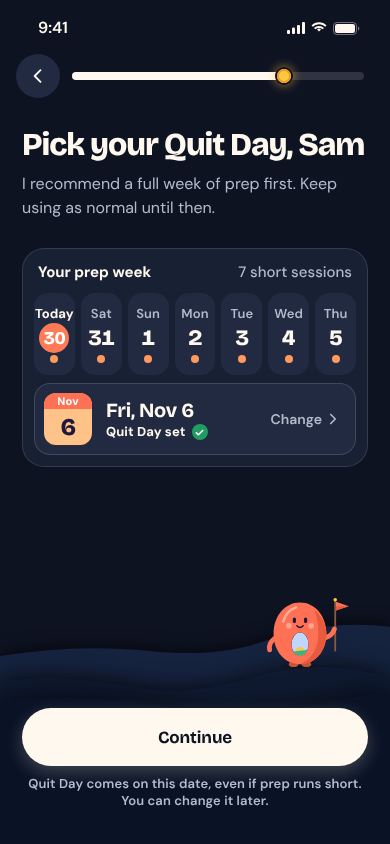
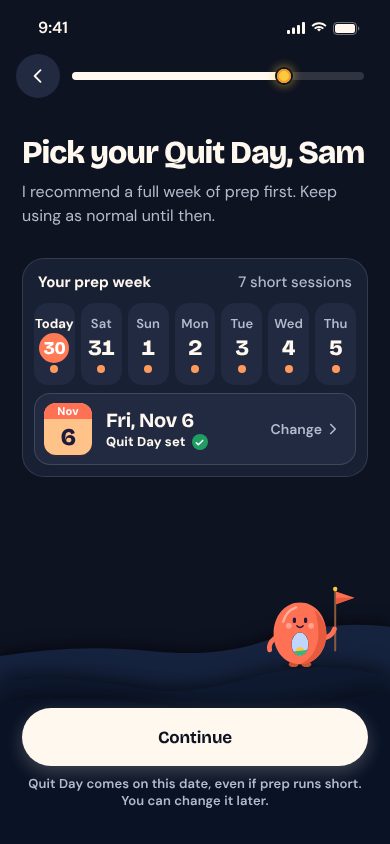
Cook: round 10 Program (022) road and horizon
Claude-Session: https://claude.ai/code/session_01DZ7ApmrncqosUtJWfkxY6v

diff --git a/cook/site/screens/010-onboarding-quit_day.html b/cook/site/screens/010-onboarding-quit_day.html
@@ -1,12 +1,12 @@
 <!doctype html><html lang="en"><head><meta charset="utf-8"><meta name="viewport" content="width=390">
 <title>010 Onboarding Quit Day</title>
-<meta name="motion" content="Progress eases 7/11 to 8/11; title, the prep-week card (seven tiles rise 45ms apart, today's Fri 30 in its coral disc, their prep dots pop left to right), the Quit Day row (a cream card with an apricot Nov 6 date page and a Change label with a right chevron: the tappable date picker), the hold button arrive in order, while the horizon strip above the dock settles up in three paper layers (0, 120, 240ms; 40px, 900ms settle) and Xero (80px, holding the coral Day Xero flag with its pennant lowered) settles onto its crest last (from 420ms). Holding fills the button left to right over 1500ms with a soft ticking haptic; on complete the button shows its done state, Quit Day set (success haptic), the coral Day Xero flag Xero holds runs up its pole (34px, 700ms settle) while he bumps (520ms), and the row's caption swaps Quit Day, recommended for Quit Day set with a green tick (300ms crossfade). 1200ms later the done button crossfades (350ms) into Continue. Tapping the Quit Day row opens the date wheel.">
+<meta name="motion" content="Progress eases 7/11 to 8/11; title, the prep-week card (seven tiles rise 45ms apart, today's Fri 30 in its coral disc, their prep dots pop left to right), the Quit Day row (a cream card with an apricot Nov 6 date page and a Change label with a right chevron: the tappable date picker), the hold button arrive in order, while the horizon strip above the dock settles up in three paper layers (0, 120, 240ms; 40px, 900ms settle) and Xero (80px, holding the coral Day Xero flag with its pennant lowered) settles onto its crest last (from 420ms). Holding fills the button left to right over 1500ms with a soft ticking haptic; on complete the button shows its done state, Quit Day set (success haptic), the coral Day Xero flag Xero holds runs up its pole (44px, 700ms settle) while he bumps (520ms), and the row's caption swaps Quit Day, recommended for Quit Day set with a green tick (300ms crossfade). 1200ms later the done button crossfades (350ms) into Continue. Tapping the Quit Day row opens the date wheel.">
 <link rel="stylesheet" href="../kit/kit.css">
 <script src="../kit/chars.js"></script><script src="../kit/kit.js"></script>
 <style>
   /* Onboarding header: back button and progress only (no avatar); the bar ends at the gutter so the sun knob never collides. */
   .nav { padding-right: 26px; }
-  .wk { margin: 28px var(--gutter) 0; padding: 14px 12px 12px; }
+  .wk { margin: 30px var(--gutter) 0; padding: 14px 12px 12px; }
   .wk-h { display: flex; justify-content: space-between; align-items: baseline; padding: 0 4px 10px; }
   /* Prep tiles sit lighter than the card in both modes (card-2), so the week always reads. */
   .days { display: grid; grid-template-columns: repeat(7, minmax(0,1fr)); gap: 6px; }
@@ -41,8 +41,8 @@
   .qd .chev { color: var(--muted); width: 18px; height: 18px; }
   .qd .chev svg { width: 18px; height: 18px; }
   /* Round 10: Xero stands on the horizon strip holding the coral Day Xero flag; it runs up the pole when Quit Day is set. */
-  .q { padding-top: 128px; }
-  .hz .pen { transform: translateY(34px); transition: transform 700ms var(--settle); }
+  .q { padding-top: 136px; }
+  .hz .pen { transform: translateY(44px); transition: transform 700ms var(--settle); }
   .hz.set .pen { transform: none; }
   .dock .t-cap { text-align: center; color: var(--muted); }
   /* After the hold: the done state shows, then the button hands over to Continue. */
@@ -118,8 +118,8 @@
   $('days').innerHTML = days.map(([d, n], i) => `<div class="day ${i === 0 ? 'today' : ''}" data-a style="--i:${i * .5 + 2.5}"><span class="t-cap">${i === 0 ? 'Today' : d}</span><span class="num">${n}</span><span class="pd" data-pop style="--i:0;--d:${700 + i * 90}ms"></span></div>`).join('');
   /* Xero, hello, holding the coral Day Xero flag in his right hand (pole behind the hand; the pennant rides up on set).
      Flat paper-cut: a coral pennant with its lower fold one shade deeper, no outline, no gloss. */
-  const flag = `<path d="M188 154 L188 30" stroke="#8A5A3C" stroke-width="4.5" stroke-linecap="round"/><circle cx="188" cy="27" r="4.5" fill="#FFC93C"/>
-    <g class="pen"><path d="M190 32 L222 43 L190 54 Z" fill="#FF7155"/><path d="M190 43 L222 43 L190 54 Z" fill="#E85A3E"/></g>`;
+  const flag = `<path d="M188 154 L188 2" stroke="#8A5A3C" stroke-width="5" stroke-linecap="round"/><circle cx="188" cy="0" r="5.5" fill="#FFC93C"/>
+    <g class="pen"><path d="M190 6 L236 22 L190 38 Z" fill="#FF7155"/><path d="M190 22 L236 22 L190 38 Z" fill="#E85A3E"/></g>`;
   const arm = '<path d="M164 122 C176 118 183 110 186 100" fill="none" stroke="#FF7155" stroke-width="12" stroke-linecap="round"></path>';
   $('hz').innerHTML = horizon({ x: 300, size: 80, art: '<div id="bw">' + DX.char('xero', { mood: 'hello', size: 80 })
     .replace('style="display: block"', 'style="display: block; overflow: visible"')

diff --git a/cook/site/screens/041-log-menu.html b/cook/site/screens/041-log-menu.html
@@ -1,6 +1,6 @@
 <!doctype html><html lang="en"><head><meta charset="utf-8"><meta name="viewport" content="width=390">
 <title>041 Log sheet</title>
-<meta name="motion" content="Today (the dawn hero with Xero) softens behind the sheet: a soft 3px blur under one uniform scrim (a warm coral veil at 16% in light, navy at 40% in dark, no desaturation, so Xero keeps his colour) while its type fades back to 30% and is masked out to nothing before the sheet edge (250ms), as the sheet slides up from the bottom (450ms settle curve, light haptic as it lands). The craving row arrives first with a larger Jelli in place of an icon, then the Used nicotine? section header (the craving form's header style) and the quieter Puff and Cigarette group, each with a small paper-cut object in place of an icon (90ms stagger), then the slip note, which sits well clear of the home indicator. All three rows end in the same 44pt tonal + button; tapping one bumps it and pushes the matching form.">
+<meta name="motion" content="Today (the dawn hero with Xero) softens behind the sheet: a soft 3px blur under one uniform scrim (a warm coral veil at 16% in light, a light navy veil at 20% in dark, no desaturation, so Xero keeps his colour) while its type fades out completely (250ms), so nothing ghosts above the sheet edge, as the sheet slides up from the bottom (450ms settle curve, light haptic as it lands). The craving row arrives first with a larger Jelli in place of an icon, then the Used nicotine? section header (the craving form's header style) and the quieter Puff and Cigarette group, each with a small paper-cut object in place of an icon (90ms stagger), then the slip note, which sits well clear of the home indicator. All three rows end in the same 44pt borderless tonal + button; tapping one bumps it and pushes the matching form.">
 <link rel="stylesheet" href="../kit/kit.css">
 <script src="../kit/chars.js"></script><script src="../kit/kit.js"></script>
 <style>
@@ -21,11 +21,12 @@
   /* the veil: a soft blur under one uniform navy scrim (no desaturation), so Xero keeps his colour behind the sheet */
   .scrim { animation: none; background: rgba(150,58,34,.16); backdrop-filter: blur(3px); -webkit-backdrop-filter: blur(3px); }
   .sheet { box-shadow: 0 -10px 30px rgba(74,40,16,.12); }
-  [data-theme="dark"] .scrim { background: rgba(6,9,18,.4); }
+  [data-theme="dark"] .scrim { background: rgba(6,9,18,.2); }
   /* Today's type steps back behind the sheet in both modes */
-  .today .content { opacity: .3; -webkit-mask-image: linear-gradient(to bottom, #000 0, transparent 64px); mask-image: linear-gradient(to bottom, #000 0, transparent 64px); }
+  /* Today's type fades out completely behind the veil, so no ghost text sits above the sheet edge */
+  .today .content { opacity: 0; }
   .play .today .content { animation: dim-type 250ms var(--ease) both; }
-  @keyframes dim-type { from { opacity: 1; } to { opacity: .3; } }
+  @keyframes dim-type { from { opacity: 1; } to { opacity: 0; } }
   .jelli-ic { width: 58px; height: 58px; flex: none; display: grid; place-items: center; margin: -4px 0 -4px -4px; }
   /* dark: the sheet is a lifted surface with a hairline top edge so it separates from the night behind it */
   [data-theme="dark"] .sheet { background: #172036; box-shadow: inset 0 1px 0 rgba(255,255,255,.16), 0 -12px 32px rgba(0,0,0,.45); }
@@ -42,12 +43,12 @@
   .list.minor { background: transparent; box-shadow: inset 0 0 0 1px var(--line); }
   .list.minor > .row { min-height: 56px; padding-block: 6px; gap: 12px; }
   /* Puff and Cigarette: small paper-cut objects in a quiet tone, the way Jelli stands in for an icon on the craving row */
-  .list.minor .pc { width: 34px; height: 34px; flex: none; display: grid; place-items: center; }
-  .list.minor .pc svg { width: 34px; height: 34px; display: block; overflow: visible; }
+  .list.minor .pc { width: 32px; height: 32px; flex: none; display: grid; place-items: center; }
+  .list.minor .pc svg { width: 32px; height: 32px; display: block; overflow: visible; }
   .list.minor .nm { font: 600 16px/1.2 var(--body); margin: 0 0 2px; }
   .list.minor .t-cap { color: var(--muted); font-weight: 500; }
   .add { width: 44px; height: 44px; border-radius: 99px; display: grid; place-items: center; flex: none; color: var(--fg);
-    background: color-mix(in srgb, var(--fg) 8%, transparent); box-shadow: inset 0 0 0 1.5px color-mix(in srgb, var(--fg) 18%, transparent); }
+    background: color-mix(in srgb, var(--fg) 9%, transparent); box-shadow: none; }
   .add svg { width: 20px; height: 20px; }
   .sofar { margin-top: 14px; padding: 14px 16px; }
   .sofar .h { display: flex; justify-content: space-between; align-items: baseline; }

diff --git a/cook/site/screens/040-milestone-share.html b/cook/site/screens/040-milestone-share.html
@@ -16,8 +16,8 @@
   .sc .hills { position: absolute; left: 0; right: 0; bottom: 0; width: 254px; height: 150px; display: block; }
   .sc .top { align-self: stretch; display: flex; justify-content: center; align-items: center; position: relative; }
   .sc .date { font: 700 13px/1 var(--body); color: #5A3420; }
-  .sc .big { position: relative; margin-top: 22px; font: 800 34px/1 var(--display); letter-spacing: -1.2px; }
-  .sc .lines { position: relative; margin-top: 7px; display: grid; gap: 2px; text-align: center; font: 700 14px/1.3 var(--body); color: #4A2A18; }
+  .sc .big { position: relative; margin-top: 34px; font: 800 40px/1 var(--display); letter-spacing: -1.4px; }
+  .sc .lines { position: relative; margin-top: 10px; display: grid; gap: 2px; text-align: center; font: 700 15px/1.3 var(--body); color: #4A2A18; }
   .sc .lines span { transition: opacity .4s var(--ease), max-height .4s var(--ease); max-height: 20px; overflow: hidden; }
   .sc .lines span.off { opacity: 0; max-height: 0; }
   /* Xero, centred and larger, stands on the hills in front of the sun with a cream paper rim (figure/ground on the coral hills) */
